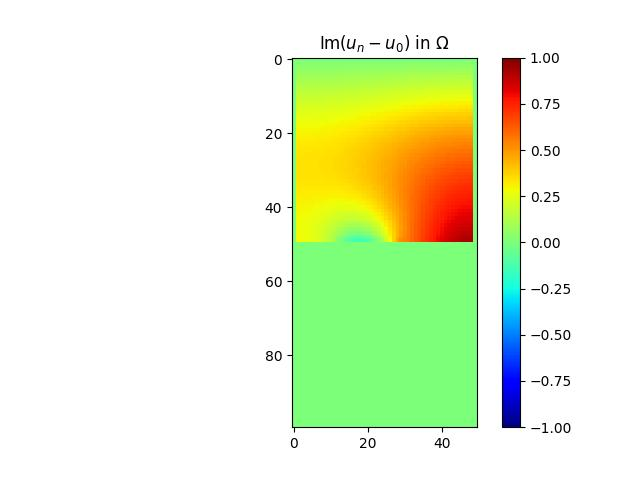
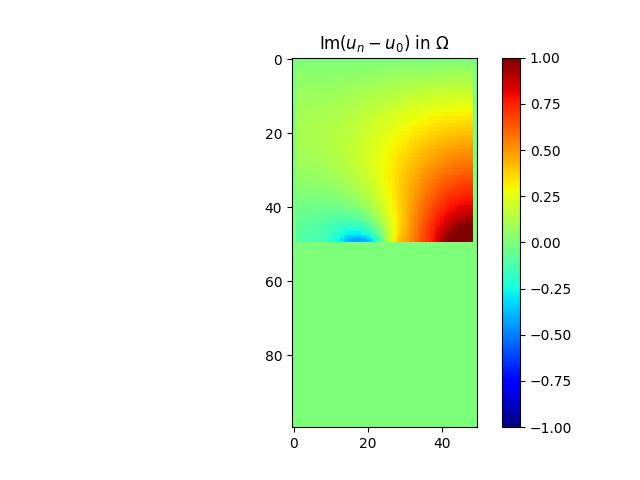
projection

Changed region(s): [[0.4375, 0.1562, 0.75, 0.5312]]

diff --git a/demo_control_polycopie.py b/demo_control_polycopie.py
@@ -44,6 +44,40 @@ def project_Uad_star(chi_tentative, mask_R, beta_target, tol=1e-6, max_iter=50):
     chi_new[mask_R] = proj_final
     return chi_new
 
+def project_to_binary(chi_relaxed, mask_R, beta_target):
+    """
+    Projection finale PU_ad(β)(χ_relaxed) sur {0,1} :
+
+      - on ne touche qu'à la frontière Robin (mask_R),
+      - on met 1 sur les plus grandes valeurs de chi jusqu'à respecter le volume β,
+      - on met 0 ailleurs.
+
+    beta_target = β = moyenne désirée de χ sur Γ_R :
+        beta_target = V_obj = sum(chi_init[mask_R]) / S
+    """
+    chi_bin = numpy.zeros_like(chi_relaxed)
+
+    # valeurs sur la Robin
+    idx_i, idx_j = numpy.where(mask_R)
+    vals = chi_relaxed[idx_i, idx_j]
+    S = vals.size
+    if S == 0:
+        return chi_bin
+
+    # nombre de points à mettre à 1 pour respecter la moyenne β
+    # β = (nb_ones / S)  => nb_ones = β * S
+    nb_ones = int(round(beta_target * S))
+    nb_ones = max(0, min(nb_ones, S))
+
+    # indices des plus grandes valeurs
+    order = numpy.argsort(vals)[::-1]  # tri décroissant
+    sel = order[:nb_ones]
+
+    # on met 1 sur ces points, 0 sur le reste (déjà à 0)
+    chi_bin[idx_i[sel], idx_j[sel]] = 1.0
+
+    return chi_bin
+
 
 def compute_parametric_gradient(domain_omega, Alpha, u, p):
     """
@@ -286,10 +320,28 @@ if __name__ == '__main__':
     chin = chi.copy()
     un = u.copy()
 
+    # --- solution relaxée
+    chi_relaxed = chi.copy()
+    u_relaxed = u.copy()
+
+    # --- projection finale sur {0,1}
+    mask_R = (domain_omega == _env.NODE_ROBIN)
+    chi_bin = project_to_binary(chi_relaxed, mask_R, V_obj)  # V_obj = β
+    alpha_rob_bin = Alpha * chi_bin
+
+    # recalcul du champ pour χ binaire
+    u_bin = processing.solve_helmholtz(domain_omega, spacestep, omega,
+                                    f, f_dir, f_neu, f_rob,
+                                    beta_pde, alpha_pde, alpha_dir,
+                                    beta_neu, beta_rob, alpha_rob_bin)
+    
+
+
+
     # --- plots
     postprocessing._plot_uncontroled_solution(u0, chi0)
-    postprocessing._plot_controled_solution(un, chin)
-    err = un - u0
+    postprocessing._plot_controled_solution(u_bin, chi_bin)
+    err = u_bin - u0
     postprocessing._plot_error(err)
     postprocessing._plot_energy_history(energy)
 

diff --git a/processing.py b/processing.py
@@ -20,8 +20,6 @@ def solve_adjoint(domain, space_step, omega, u_source,
         même type de conditions aux limites que le direct, avec alpha_rob conjugué.
     """
 
-    import numpy
-
     (M, N) = numpy.shape(domain)
 
     # f_adj = 2u à l'intérieur du domaine
